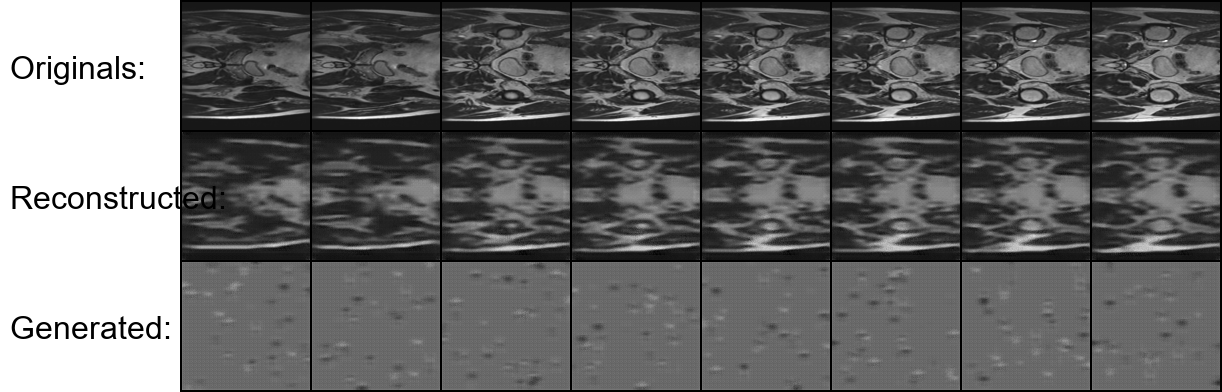
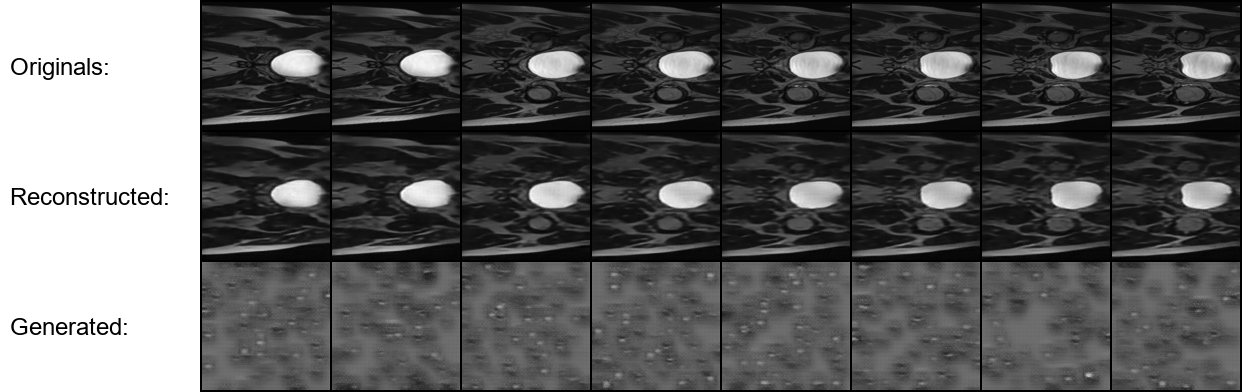
Implement full test set evaluation and best/worst case analysis
Overhaul the `predict.py` script to perform a comprehensive and rigorous evaluation of the final trained model.

- The script now iterates over the entire test set to calculate a robust, overall average SSIM score.
- It calculates SSIM on a per-image basis and stores all results.
- After evaluation, it sorts the results and automatically generates two new analysis images:
  1. `best_10_reconstructions.png`: Visualizing the model's top successes.
  2. `worst_10_reconstructions.png`: Highlighting the model's primary failure modes.

This provides a much deeper quantitative and qualitative understanding of the final model's performance on unseen data.

diff --git a/recognition/s4839769_vqvae/predict.py b/recognition/s4839769_vqvae/predict.py
@@ -1,109 +1,157 @@
 # predict.py
 
 """
-Demonstrates the usage of a trained VQ-VAE model.
-- Reconstructs a batch of validation images and reports SSIM.
-- Generates a batch of new images from a random latent prior.
-- Saves a final, labeled comparison grid showing all three image types.
+Performs a comprehensive evaluation of the trained VQ-VAE model on the entire test set.
+- Calculates the overall average SSIM across all test images.
+- Identifies and saves the 10 best and 10 worst reconstructions.
+- Generates a batch of new images from the PixelCNN prior.
 """
 import os
 import torch
 from torchvision.utils import make_grid
-from torchmetrics import StructuralSimilarityIndexMeasure
+from torchmetrics.image import StructuralSimilarityIndexMeasure
 from PIL import Image, ImageDraw, ImageFont
 import torchvision.transforms as transforms
+from tqdm import tqdm
+import numpy as np
 
 from config import cfg
-from modules import VQVAE
+from modules import VQVAE, PixelCNN
 from dataset import get_dataloaders
 
-def predict():
-    """Loads a trained model, generates reconstructions and new images, and reports SSIM."""
-    device = cfg.DEVICE
-    print(f"Using device: {device}")
-
-    # --- 1. Load the Best Trained Model ---
-    model_path = os.path.join(cfg.CHECKPOINT_DIR, "vqvae_best_model.pth")
-    if not os.path.exists(model_path):
-        print(f"ERROR: Model file not found at {model_path}. Please run train.py first.")
-        return
-
-    model = VQVAE(
-        in_channels=cfg.IN_CHANNELS, hidden_channels=cfg.HIDDEN_CHANNELS,
-        out_channels=cfg.IN_CHANNELS, num_res_blocks=cfg.NUM_RES_BLOCKS,
-        res_channels=cfg.RES_CHANNELS, num_embeddings=cfg.NUM_EMBEDDINGS,
-        embedding_dim=cfg.EMBEDDING_DIM, commitment_cost=cfg.COMMITMENT_COST
-    ).to(device)
-    model.load_state_dict(torch.load(model_path, map_location=device))
-    model.eval()
-    print(f"Successfully loaded best trained model from {model_path}")
-
-    # --- 2. Get Data for Reconstruction ---
-    try:
-        # get_dataloaders now returns three items. We only need the third one (test_loader).
-        _, _, test_loader = get_dataloaders()
-        original_images = next(iter(test_loader))[:8].to(device) # We'll use 8 images
-    except (ValueError, FileNotFoundError) as e:
-        print(f"ERROR: Could not load test data. {e}")
-        return
-
-        
-    ssim_metric = StructuralSimilarityIndexMeasure(data_range=2.0).to(device)
-        
-    # --- 3. Generate Reconstructions and Calculate SSIM ---
-    print("Generating reconstructions...")
-    with torch.no_grad():
-        _, reconstructed_images = model(original_images)
-        batch_ssim = ssim_metric(reconstructed_images, original_images)
-
-    # --- 4. Generate New Images from Scratch ---
-    print("Generating new images from a random prior...")
-    with torch.no_grad():
-        latent_h = cfg.IMAGE_SIZE // 4
-        latent_w = cfg.IMAGE_SIZE // 4
-        num_generations = 8
-        random_indices = torch.randint(
-            low=0, high=cfg.NUM_EMBEDDINGS,
-            size=(num_generations, latent_h, latent_w), device=device
-        )
-        quantized_latents = model.vq_layer.embedding(random_indices)
-        quantized_latents = quantized_latents.permute(0, 3, 1, 2).contiguous()
-        generated_images = model.decoder(quantized_latents)
-
-    # --- 5. Create and Save the Labeled Comparison Image (NEW LOGIC) ---
-    print("Creating labeled comparison image...")
+def save_comparison_grid(originals, reconstructions, title, save_path, num_images=10):
+    """A helper function to save a labeled grid of original vs. reconstructed images."""
+    # Ensure we only take up to num_images
+    originals = originals[:num_images]
+    reconstructions = reconstructions[:num_images]
     
-    all_images_tensor = torch.cat([original_images, reconstructed_images, generated_images])
-    grid_tensor = make_grid(all_images_tensor.cpu(), nrow=8, normalize=True)
+    all_images_tensor = torch.cat([torch.stack(originals), torch.stack(reconstructions)])
+    grid_tensor = make_grid(all_images_tensor.cpu(), nrow=num_images, normalize=True)
     grid_pil = transforms.ToPILImage()(grid_tensor)
     
-    label_width = 200 # Adjusted space
+    label_width = 180
     canvas = Image.new('RGB', (grid_pil.width + label_width, grid_pil.height), 'white')
     canvas.paste(grid_pil, (label_width, 0))
-    
     draw = ImageDraw.Draw(canvas)
-    try:
-        font = ImageFont.truetype("arial.ttf", size=24) # Smaller font
-    except IOError:
-        font = ImageFont.load_default()
+    try: font = ImageFont.truetype("arial.ttf", size=24)
+    except IOError: font = ImageFont.load_default()
 
-    row_height = grid_pil.height // 3
-    labels = ["Originals:", "Reconstructed:", "Generated:"]
+    row_height = grid_pil.height // 2
+    labels = ["Originals:", "Reconstructed:"]
     y_positions = [(row_height * i) + (row_height // 2) - 12 for i in range(len(labels))]
-    
     for i, label in enumerate(labels):
         draw.text((10, y_positions[i]), label, fill="black", font=font)
         
+    # Add a main title
+    title_font = ImageFont.truetype("arialbd.ttf", size=30) if 'font' in locals() else font
+    draw.text((label_width + 10, 10), title, fill="black", font=title_font)
+
+    canvas.save(save_path)
+    print(f"Saved comparison grid to: {save_path}")
+
+def predict():
+    """Main evaluation and generation function."""
+    device = cfg.DEVICE
+    print(f"Using device: {device}")
     output_dir = 'predictions'
     os.makedirs(output_dir, exist_ok=True)
-    output_path = os.path.join(output_dir, f"{cfg.PROJECT_NAME}_generation_result_labeled.png")
-    canvas.save(output_path)
 
+    # --- 1. Load Both Trained Models ---
+    vqvae_model_path = os.path.join(cfg.CHECKPOINT_DIR, "vqvae_best_model.pth")
+    pixelcnn_model_path = os.path.join(cfg.CHECKPOINT_DIR, "pixelcnn_best_model.pth")
     
-    print("-" * 50)
-    print("Prediction and Generation complete!")
-    print(f"SSIM for reconstructed batch: {batch_ssim.item():.4f}")
-    print(f"Saved labeled comparison image to: {output_path}")
+    if not os.path.exists(vqvae_model_path) or not os.path.exists(pixelcnn_model_path):
+        print("ERROR: One or both model files not found. Please run 'train' and 'train_pixelcnn' modes first.")
+        return
+
+    vqvae_model = VQVAE(
+        in_channels=cfg.IN_CHANNELS, hidden_channels=cfg.HIDDEN_CHANNELS, out_channels=cfg.IN_CHANNELS,
+        num_res_blocks=cfg.NUM_RES_BLOCKS, res_channels=cfg.RES_CHANNELS, num_embeddings=cfg.NUM_EMBEDDINGS,
+        embedding_dim=cfg.EMBEDDING_DIM, commitment_cost=cfg.COMMITMENT_COST
+    ).to(device)
+    vqvae_model.load_state_dict(torch.load(vqvae_model_path, weights_only=True))
+    vqvae_model.eval()
+
+    pixelcnn_model = PixelCNN(num_embeddings=cfg.NUM_EMBEDDINGS).to(device)
+    pixelcnn_model.load_state_dict(torch.load(pixelcnn_model_path, weights_only=True))
+    pixelcnn_model.eval()
+    print("Successfully loaded both VQ-VAE and PixelCNN models.")
+
+    # --- 2. Full Test Set Evaluation (NEW & IMPROVED) ---
+    print("\n--- Starting Full Test Set Evaluation ---")
+    _, _, test_loader = get_dataloaders()
+    ssim_metric = StructuralSimilarityIndexMeasure(data_range=2.0).to(device)
+    
+    results = [] # To store {'original': tensor, 'recon': tensor, 'ssim': float}
+
+    with torch.no_grad():
+        for batch in tqdm(test_loader, desc="Evaluating on Test Set"):
+            batch = batch.to(device)
+            _, reconstructions = vqvae_model(batch)
+            
+            # Iterate through each image in the batch to calculate individual SSIM
+            for i in range(batch.size(0)):
+                original_img = batch[i].unsqueeze(0)
+                recon_img = reconstructions[i].unsqueeze(0)
+                
+                # Calculate SSIM for this single image
+                score = ssim_metric(recon_img, original_img).item()
+                
+                # Store the results (move tensors to CPU to save GPU memory)
+                results.append({
+                    'original': original_img.squeeze(0).cpu(),
+                    'recon': recon_img.squeeze(0).cpu(),
+                    'ssim': score
+                })
+
+    # --- 3. Process and Report Results ---
+    # Calculate overall average SSIM
+    all_ssim_scores = [res['ssim'] for res in results]
+    overall_avg_ssim = np.mean(all_ssim_scores)
+
+    # Sort the results by SSIM score (lowest to highest)
+    results.sort(key=lambda x: x['ssim'])
+
+    # Get the 10 worst and 10 best
+    worst_10 = results[:10]
+    best_10 = results[-10:]
+    
+    # Save the visual results
+    save_comparison_grid(
+        [item['original'] for item in best_10],
+        [item['recon'] for item in best_10],
+        "Top 10 Best Reconstructions (by SSIM)",
+        os.path.join(output_dir, "best_10_reconstructions.png")
+    )
+    save_comparison_grid(
+        [item['original'] for item in worst_10],
+        [item['recon'] for item in worst_10],
+        "Top 10 Worst Reconstructions (by SSIM)",
+        os.path.join(output_dir, "worst_10_reconstructions.png")
+    )
+
+    print("\n--- Test Set Evaluation Complete ---")
+    print(f"Overall Average SSIM across {len(results)} test images: {overall_avg_ssim:.4f}")
+    
+    # --- 4. Generate New Images with PixelCNN (Unchanged) ---
+    print("\n--- Starting Generation with PixelCNN (this will be slow) ---")
+    with torch.no_grad():
+        latent_h, latent_w = cfg.IMAGE_SIZE // 4, cfg.IMAGE_SIZE // 4
+        num_generations = 8
+        latent_map = torch.zeros(num_generations, latent_h, latent_w, dtype=torch.int64).to(device)
+        
+        for h in tqdm(range(latent_h), desc="Generating Rows"):
+            for w in range(latent_w):
+                output_logits = pixelcnn_model(latent_map)
+                probs = torch.softmax(output_logits[:, :, h, w], dim=1)
+                latent_map[:, h, w] = torch.multinomial(probs, 1).squeeze(-1)
+                
+        quantized_latents = vqvae_model.vq_layer.embedding(latent_map).permute(0, 3, 1, 2)
+        generated_images = vqvae_model.decoder(quantized_latents)
+
+    # Save the generated images
+    save_image(generated_images.cpu(), os.path.join(output_dir, "pixelcnn_generated_images.png"), nrow=8, normalize=True)
+    print(f"Saved PixelCNN generated images to: {os.path.join(output_dir, 'pixelcnn_generated_images.png')}")
     print("-" * 50)
 
 if __name__ == '__main__':

diff --git a/recognition/s4839769_vqvae/main.py b/recognition/s4839769_vqvae/main.py
@@ -25,6 +25,8 @@ from train import train_model
 from predict import predict
 from train_pixelcnn import train_pixelcnn # NEW IMPORT
 from config import cfg
+from dataset import get_dataloaders
+
 
 def main():
     parser = argparse.ArgumentParser(
@@ -67,10 +69,8 @@ def main():
         print(f"Using cluster dataset path: {cfg.DATASET_ROOT}")
 
     print("=" * 50)
-
     # --- Mode Execution ---
     if args.mode == 'train':
-        if args.mode == 'train':
         try:
             # --- UPDATE THIS LINE ---
             # Unpack all three loaders, even though train_model only needs two.
@@ -90,7 +90,6 @@ def main():
             print("\nPixelCNN training finished. Now you can generate images by running:")
             print("python main.py predict --local")
         except Exception as e: print(f"\nAn error occurred during PixelCNN training: {e}")
-
     elif args.mode == 'predict':
         try:
             # (Predict logic is unchanged for now, we will update it next)

diff --git a/recognition/s4839769_vqvae/train_pixelcnn.py b/recognition/s4839769_vqvae/train_pixelcnn.py
@@ -40,15 +40,17 @@ def train_pixelcnn():
     pixelcnn_model = PixelCNN(num_embeddings=cfg.NUM_EMBEDDINGS).to(device)
     optimizer = torch.optim.Adam(pixelcnn_model.parameters(), lr=cfg.LEARNING_RATE)
     
-    # We only need the training data loader
-    train_loader, _ = get_dataloaders()
+    # Unpack all three loaders, but ignore the validation and test loaders.
+    train_loader, _, _ = get_dataloaders()
+
     
     # --- 3. Training Loop for PixelCNN ---
     best_loss = float('inf')
     # The number of epochs for PixelCNN can be different, let's use a config value
     # or a hardcoded value for simplicity. 50 epochs is a good start.
-    scheduler = torch.optim.lr_scheduler.CosineAnnealingLR(optimizer, T_max=num_epochs)
     num_epochs = 50 
+
+    scheduler = torch.optim.lr_scheduler.CosineAnnealingLR(optimizer, T_max=num_epochs)
     
     print("Starting PixelCNN training...")
     for epoch in range(1, num_epochs + 1):
